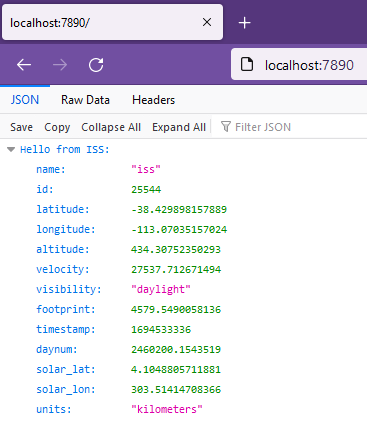
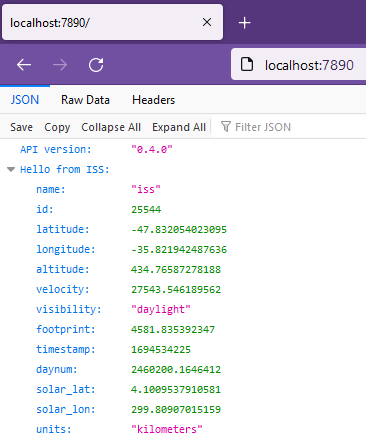
add API version to response

diff --git a/fastapi_slowly/version.py b/fastapi_slowly/version.py
@@ -1,0 +1,15 @@
+# fastapi_slowly/version.py
+
+from importlib.metadata import PackageNotFoundError, version
+from pathlib import Path
+import tomllib  # new in Python 3.11
+
+def get_version():
+    try:
+        package_version = version(__package__)
+    except PackageNotFoundError:
+        pyproject_path = Path(__file__).parent.parent / "pyproject.toml"
+        with open(pyproject_path, "rb") as pyproject:
+            toml = tomllib.load(pyproject)
+            package_version = toml["tool"]["poetry"]["version"]
+    return package_version

diff --git a/fastapi_slowly/api.py b/fastapi_slowly/api.py
@@ -1,5 +1,7 @@
 # fastapi_slowly/api.py
 
+from .version import get_version
+
 from fastapi import FastAPI
 import requests
 
@@ -11,5 +13,6 @@ async def root():
     iss_url = "https://api.wheretheiss.at/v1/satellites/25544"
     response = requests.get(iss_url)
     return {
+        "API version": get_version(),
         "Hello from ISS": response.json(),
     }

diff --git a/README.md b/README.md
@@ -1,39 +1,37 @@
 # Navigation
 
-## [`03 <- `](https://github.com/liquidcarbon/FastAPI-Slowly/tree/03)**`04`**[` -> 05`](https://github.com/liquidcarbon/FastAPI-Slowly/tree/05)
+## [`04 <- `](https://github.com/liquidcarbon/FastAPI-Slowly/tree/04)**`05`**[` -> 06`](https://github.com/liquidcarbon/FastAPI-Slowly/tree/06)
 
 
-# 04. Return a response from an extraterrestrial API
+# 05. Add API version to response
 
 ```bash
-a@SNAVVV:~/code/FastAPI-Slowly$ git checkout -b 04
-Switched to a new branch '04'
-a@SNAVVV:~/code/FastAPI-Slowly$ poetry add requests
-Using version ^2.31.0 for requests
-
-Updating dependencies
-Resolving dependencies... (0.2s)
-
-Package operations: 4 installs, 0 updates, 0 removals
-
-  • Installing certifi (2023.7.22)
-  • Installing charset-normalizer (3.2.0)
-  • Installing urllib3 (2.0.4)
-  • Installing requests (2.31.0)
-
-Writing lock file
-
-a@SNAVVV:~/code/FastAPI-Slowly$
-a@SNAVVV:~/code/FastAPI-Slowly$
+a@SNAVVV:~/code/FastAPI-Slowly$ git checkout -b 05
+Switched to a new branch '05'
+a@SNAVVV:~/code/FastAPI-Slowly$ touch fastapi_slowly/version.py
+a@SNAVVV:~/code/FastAPI-Slowly$ python -c 'from fastapi_slowly.version import get_version; print(get_version())'
+0.4.0
 a@SNAVVV:~/code/FastAPI-Slowly$ poetry version minor
-Bumping version from 0.3.0 to 0.4.0
-a@SNAVVV:~/code/FastAPI-Slowly$
-a@SNAVVV:~/code/FastAPI-Slowly$
+Bumping version from 0.4.0 to 0.5.0
+a@SNAVVV:~/code/FastAPI-Slowly$ python -c 'from fastapi_slowly.version import get_version; print(get_version())'
+0.5.0
+a@SNAVVV:~/code/FastAPI-Slowly$ git status
+On branch 05
+Changes not staged for commit:
+  (use "git add <file>..." to update what will be committed)
+  (use "git restore <file>..." to discard changes in working directory)
+        modified:   README.md
+        modified:   fastapi_slowly/api.py
+        modified:   image.png
+        modified:   pyproject.toml
 
+Untracked files:
+  (use "git add <file>..." to include in what will be committed)
+        fastapi_slowly/version.py
 ```
 
-![Step 04 - HTTP request to ISS API](image.png)
+![Step 05 - respond with version](image.png)
 
 ---
 
-## [`03 <- `](https://github.com/liquidcarbon/FastAPI-Slowly/tree/03)**`04`**[` -> 05`](https://github.com/liquidcarbon/FastAPI-Slowly/tree/05)
+## [`04 <- `](https://github.com/liquidcarbon/FastAPI-Slowly/tree/04)**`05`**[` -> 06`](https://github.com/liquidcarbon/FastAPI-Slowly/tree/06)
